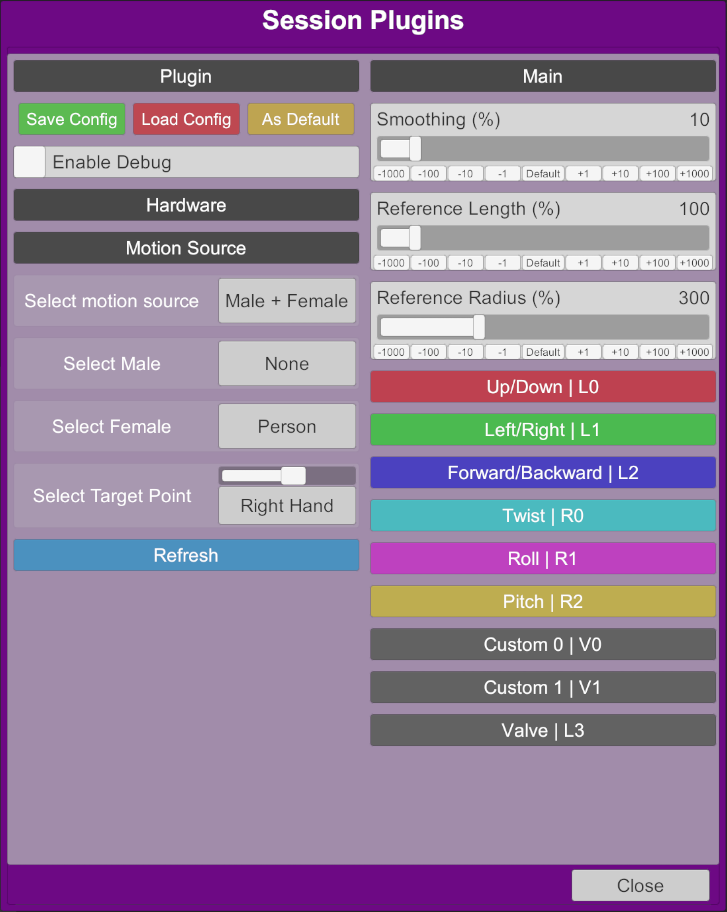
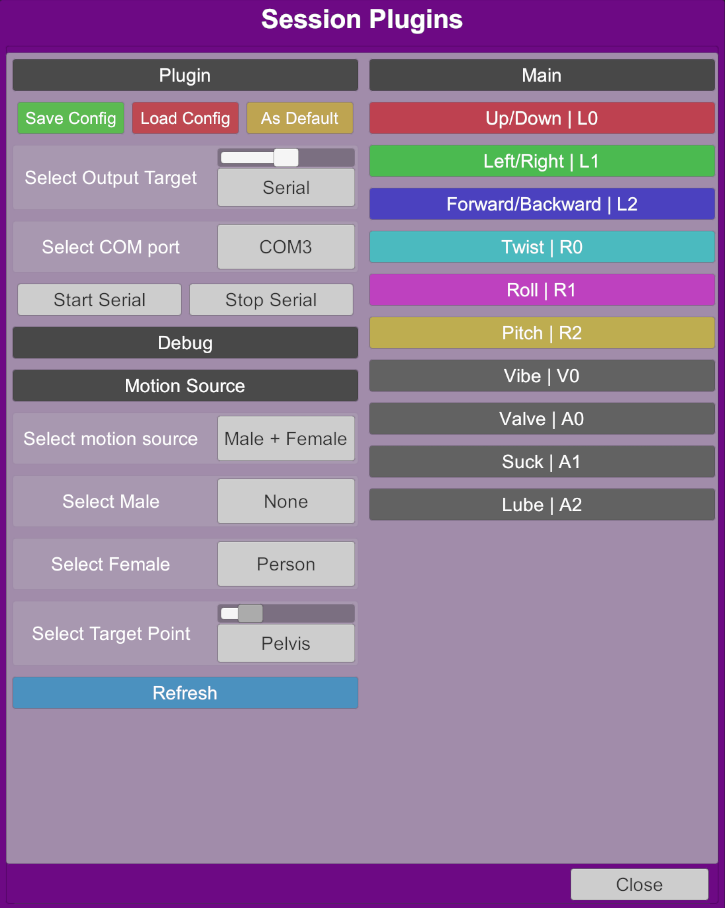
Update README.md

diff --git a/README.md b/README.md
@@ -13,14 +13,11 @@ ToySerialController is a VaM (Virt-a-Mate) plugin that synchronizes your [OSR](h
 
 # Features
 
-* Save/Load preset feature with a auto loading default
-* Serial TCode output
+* Serial and UDP TCode output
 * Multiple motion sources: 
     * "Male + Female"
     * "Asset + Female"
     * "Toy + Female"
     * "Animation Pattern"
-* Supports all TCode axes:
-    * L0, L1, L2: translation range slider in cm
-    * R0, R1, R2: rotation range slider in degrees
-    * V0, V1, L3: values based on curve editor
+* Supports TCode v0.3
+* Custom curve editor for V0, A0, A1, A2
